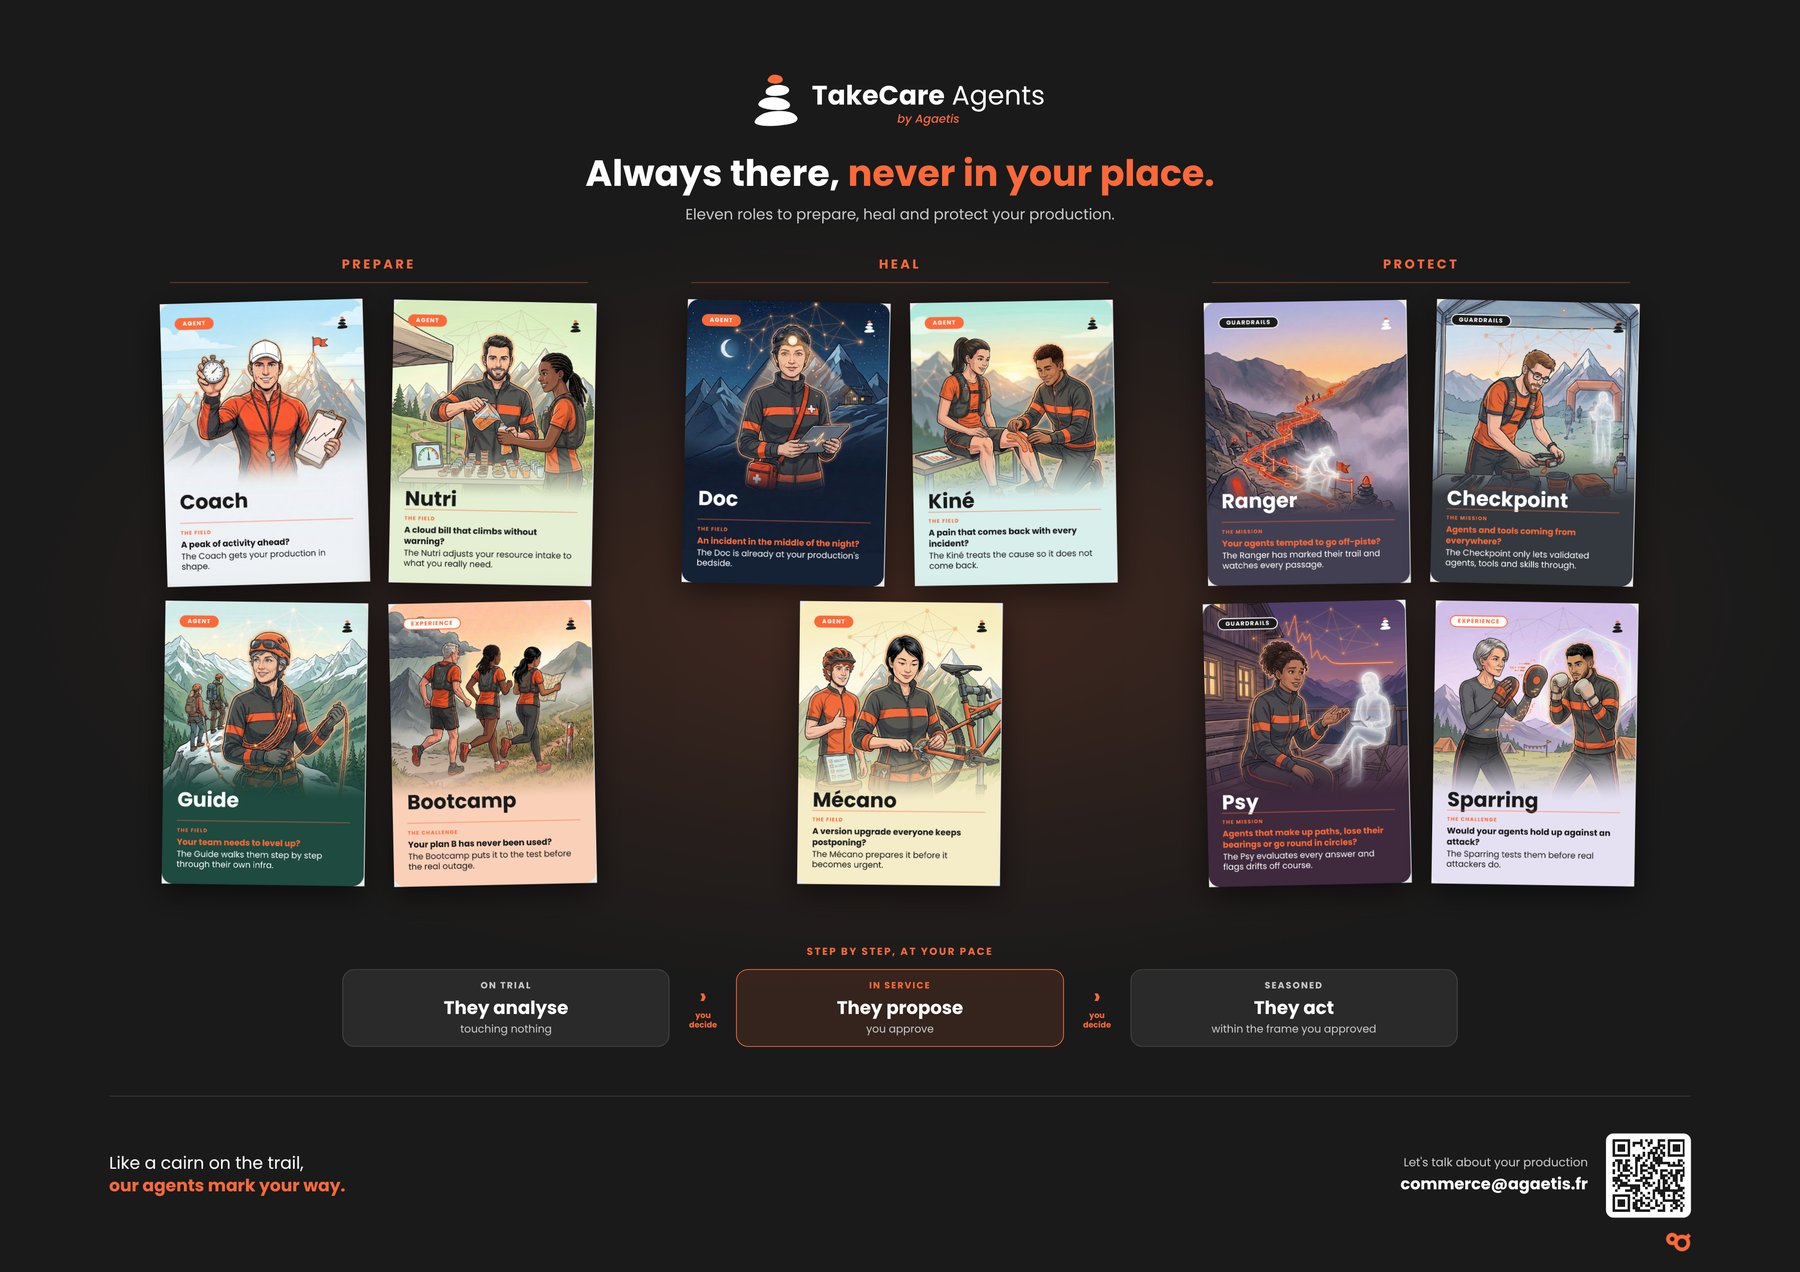
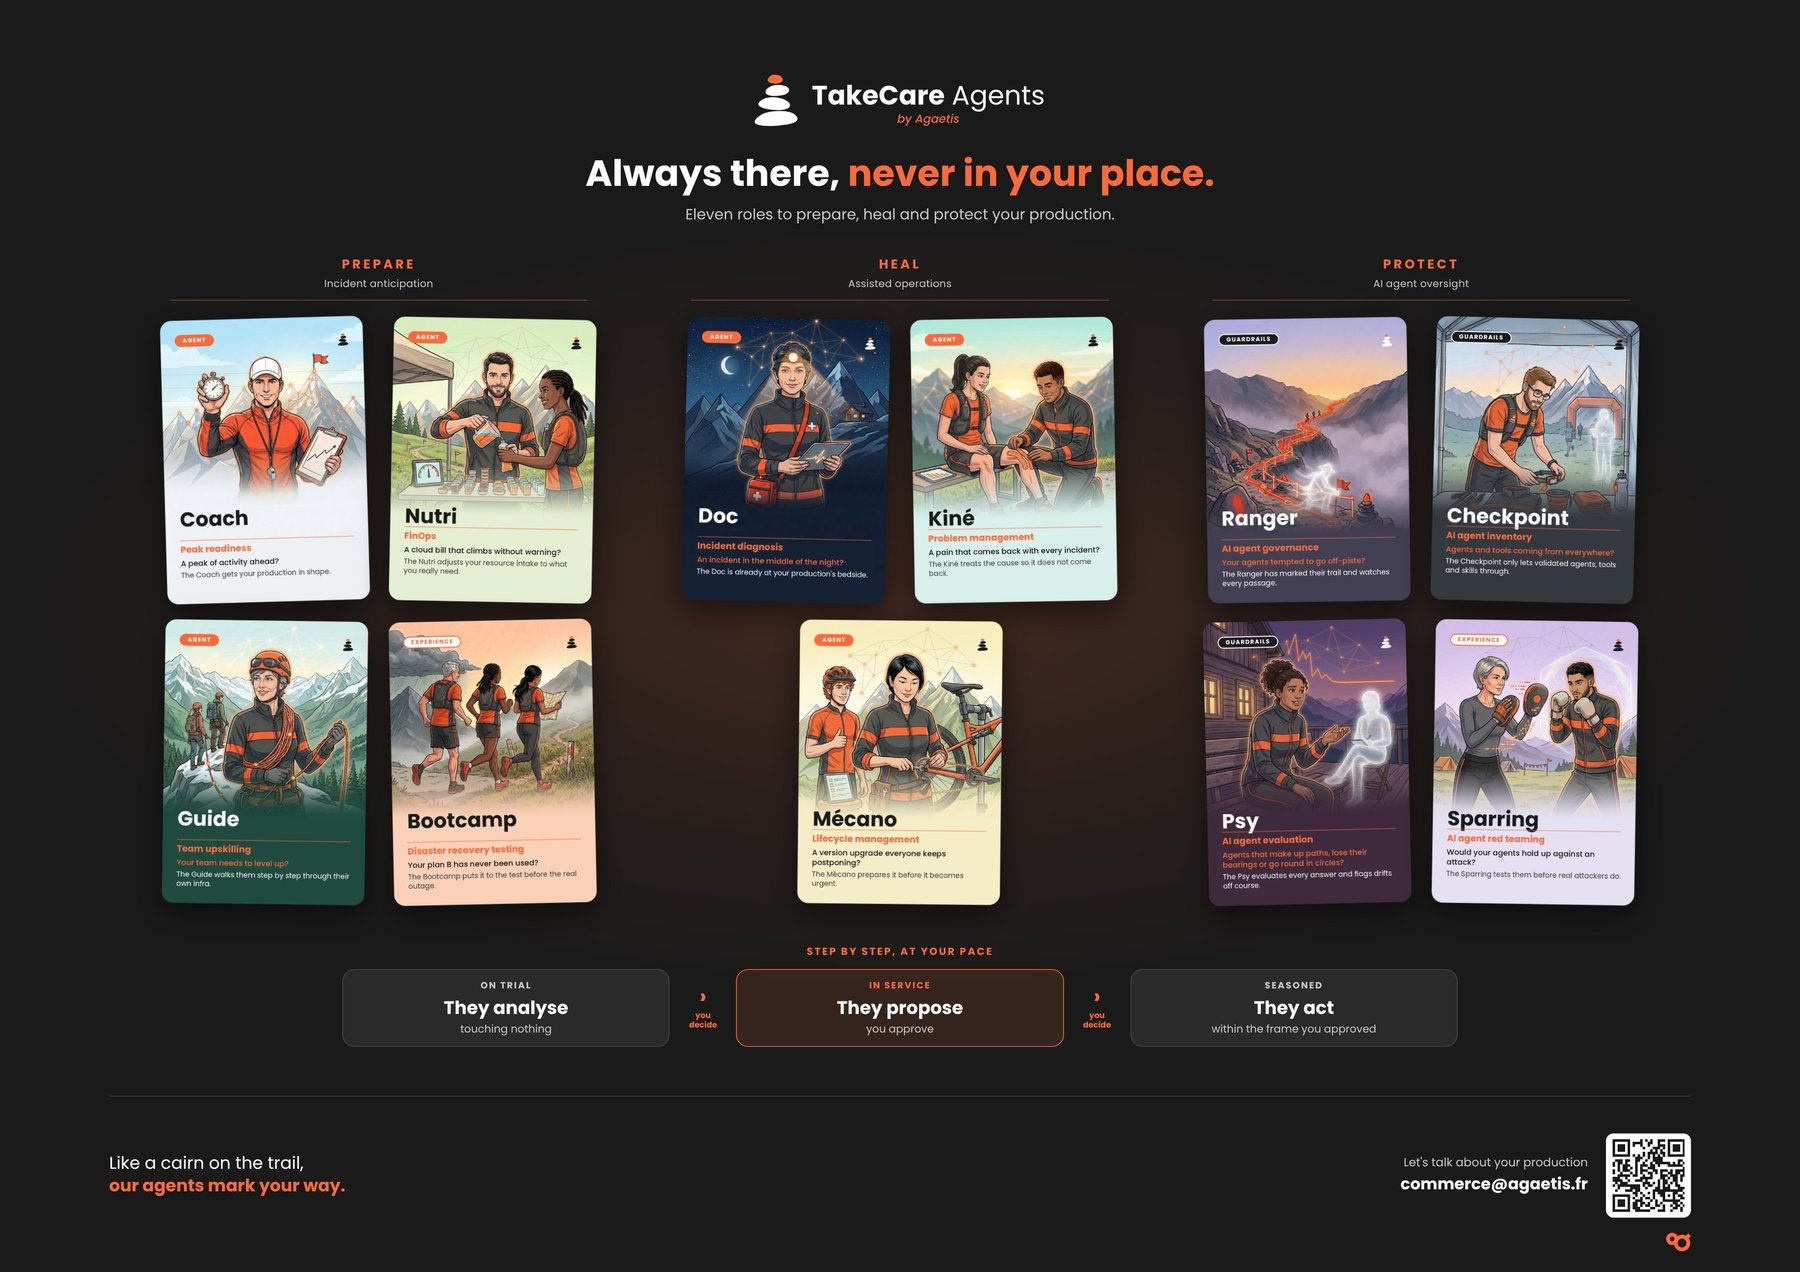
docs: add job names and pillar subtitles to the staff table
Give every role its job name next to its nickname, so that a reader
who is not an engineer can map the staff to operations work. Add the
pillar subtitles and refresh the staff image with the current cards.

Claude-Session: https://claude.ai/code/session_014uxGjatT9dhDi7oCotgyBj

Changed region(s): [[0.6533, 0.2146, 0.9333, 0.7358], [0.0622, 0.2146, 0.3422, 0.7358], [0.3733, 0.2146, 0.6222, 0.7358]]

diff --git a/README.md b/README.md
@@ -16,22 +16,29 @@ TakeCare Agents is a staff of AI agents, exercises and guardrails that prepare, 
 
 ## The staff
 
-Eleven roles, grouped in three pillars. Every role starts with a trial, touching nothing.
+Eleven roles, grouped in three pillars. Each role has a nickname you remember and a job name that says what it does in operations. Every role starts with a trial, touching nothing.
 
 <p align="center">
   <img src="docs/assets/takecare-staff.jpg" alt="The TakeCare staff: eleven role cards grouped by pillar (prepare, heal, protect) and the three intervention levels" width="100%">
 </p>
 
-| Prepare | Heal | Protect |
-|---|---|---|
-| **Coach** · A peak of activity ahead? | **Doc** · An incident in the middle of the night? | **Ranger** · Your agents tempted to go off-piste? |
-| **Nutri** · A cloud bill that climbs without warning? | **Kiné** · A pain that comes back with every incident? | **Checkpoint** · Agents and tools coming from everywhere? |
-| **Guide** · Your team needs to level up? | **Mécano** · A version upgrade everyone keeps postponing? | **Psy** · Agents that make up paths or go round in circles? |
-| **Bootcamp** · Your plan B has never been used? | | **Sparring** · Would your agents hold up against an attack? |
+| Pillar | Role | Job name | The question it answers |
+|---|---|---|---|
+| **Prepare**<br><sub>Incident anticipation</sub> | **Coach** | Peak readiness | A peak of activity ahead? |
+| | **Nutri** | FinOps | A cloud bill that climbs without warning? |
+| | **Guide** | Team upskilling | Your team needs to level up? |
+| | **Bootcamp** | Disaster recovery testing | Your plan B has never been used? |
+| **Heal**<br><sub>Assisted operations</sub> | **Doc** | Incident diagnosis | An incident in the middle of the night? |
+| | **Kiné** | Problem management | A pain that comes back with every incident? |
+| | **Mécano** | Lifecycle management | A version upgrade everyone keeps postponing? |
+| **Protect**<br><sub>AI agent oversight</sub> | **Ranger** | AI agent governance | Your agents tempted to go off-piste? |
+| | **Checkpoint** | AI agent inventory | Agents and tools coming from everywhere? |
+| | **Psy** | AI agent evaluation | Agents that make up paths or go round in circles? |
+| | **Sparring** | AI agent red teaming | Would your agents hold up against an attack? |
 
 Agents: Coach, Nutri, Guide, Doc, Kiné, Mécano. Exercises run by Agaetis: Bootcamp, Sparring. Guardrails: Ranger, Checkpoint, Psy.
 
-Milestone 1 delivers the **Doc**: on every alert, it investigates read-only and posts a sourced diagnosis to Slack (the root cause, the ruled-out leads, who should act). You decide on the treatment.
+Milestone 1 delivers the **Doc** (incident diagnosis): on every alert, it investigates read-only and posts a sourced diagnosis to Slack (the root cause, the ruled-out leads, who should act). You decide on the treatment.
 
 ## The principle: the level is declared
 
